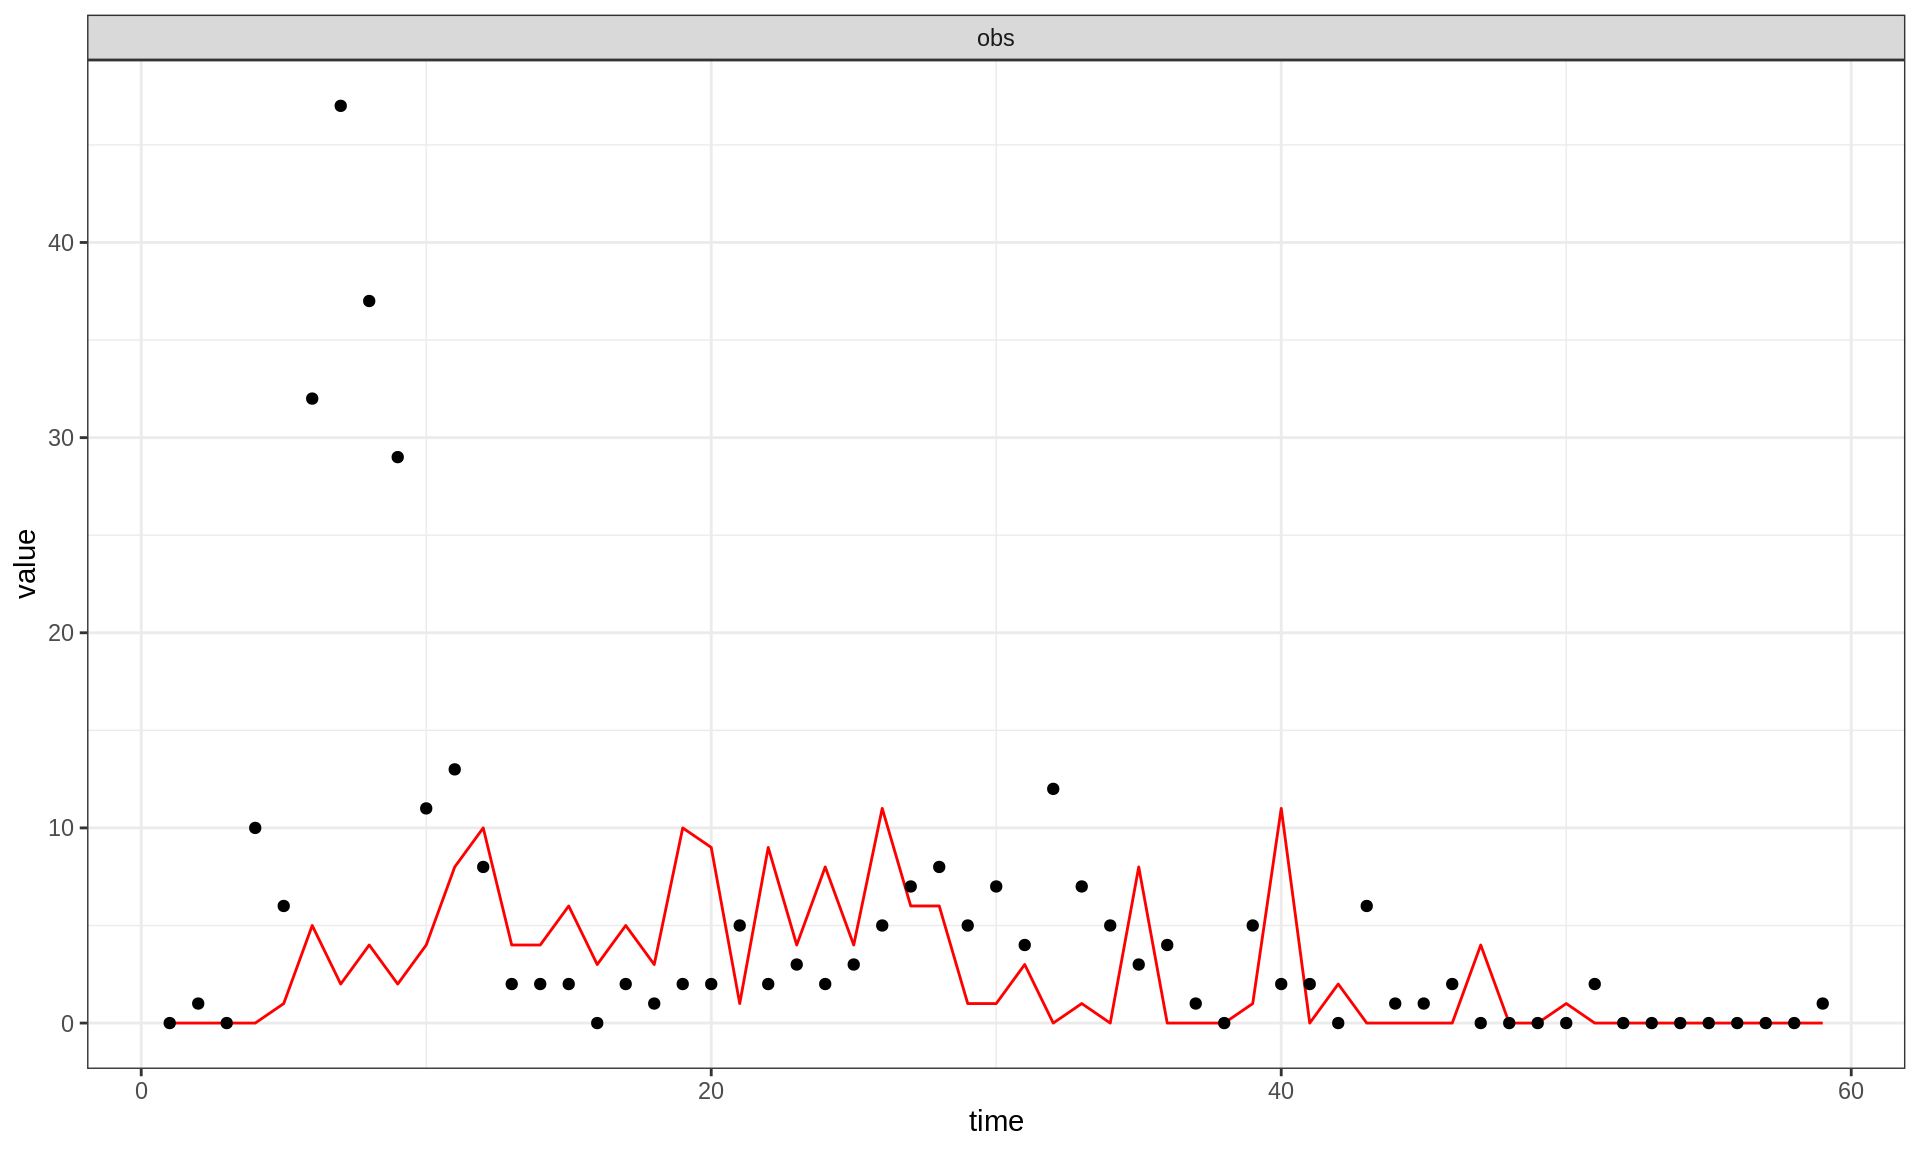
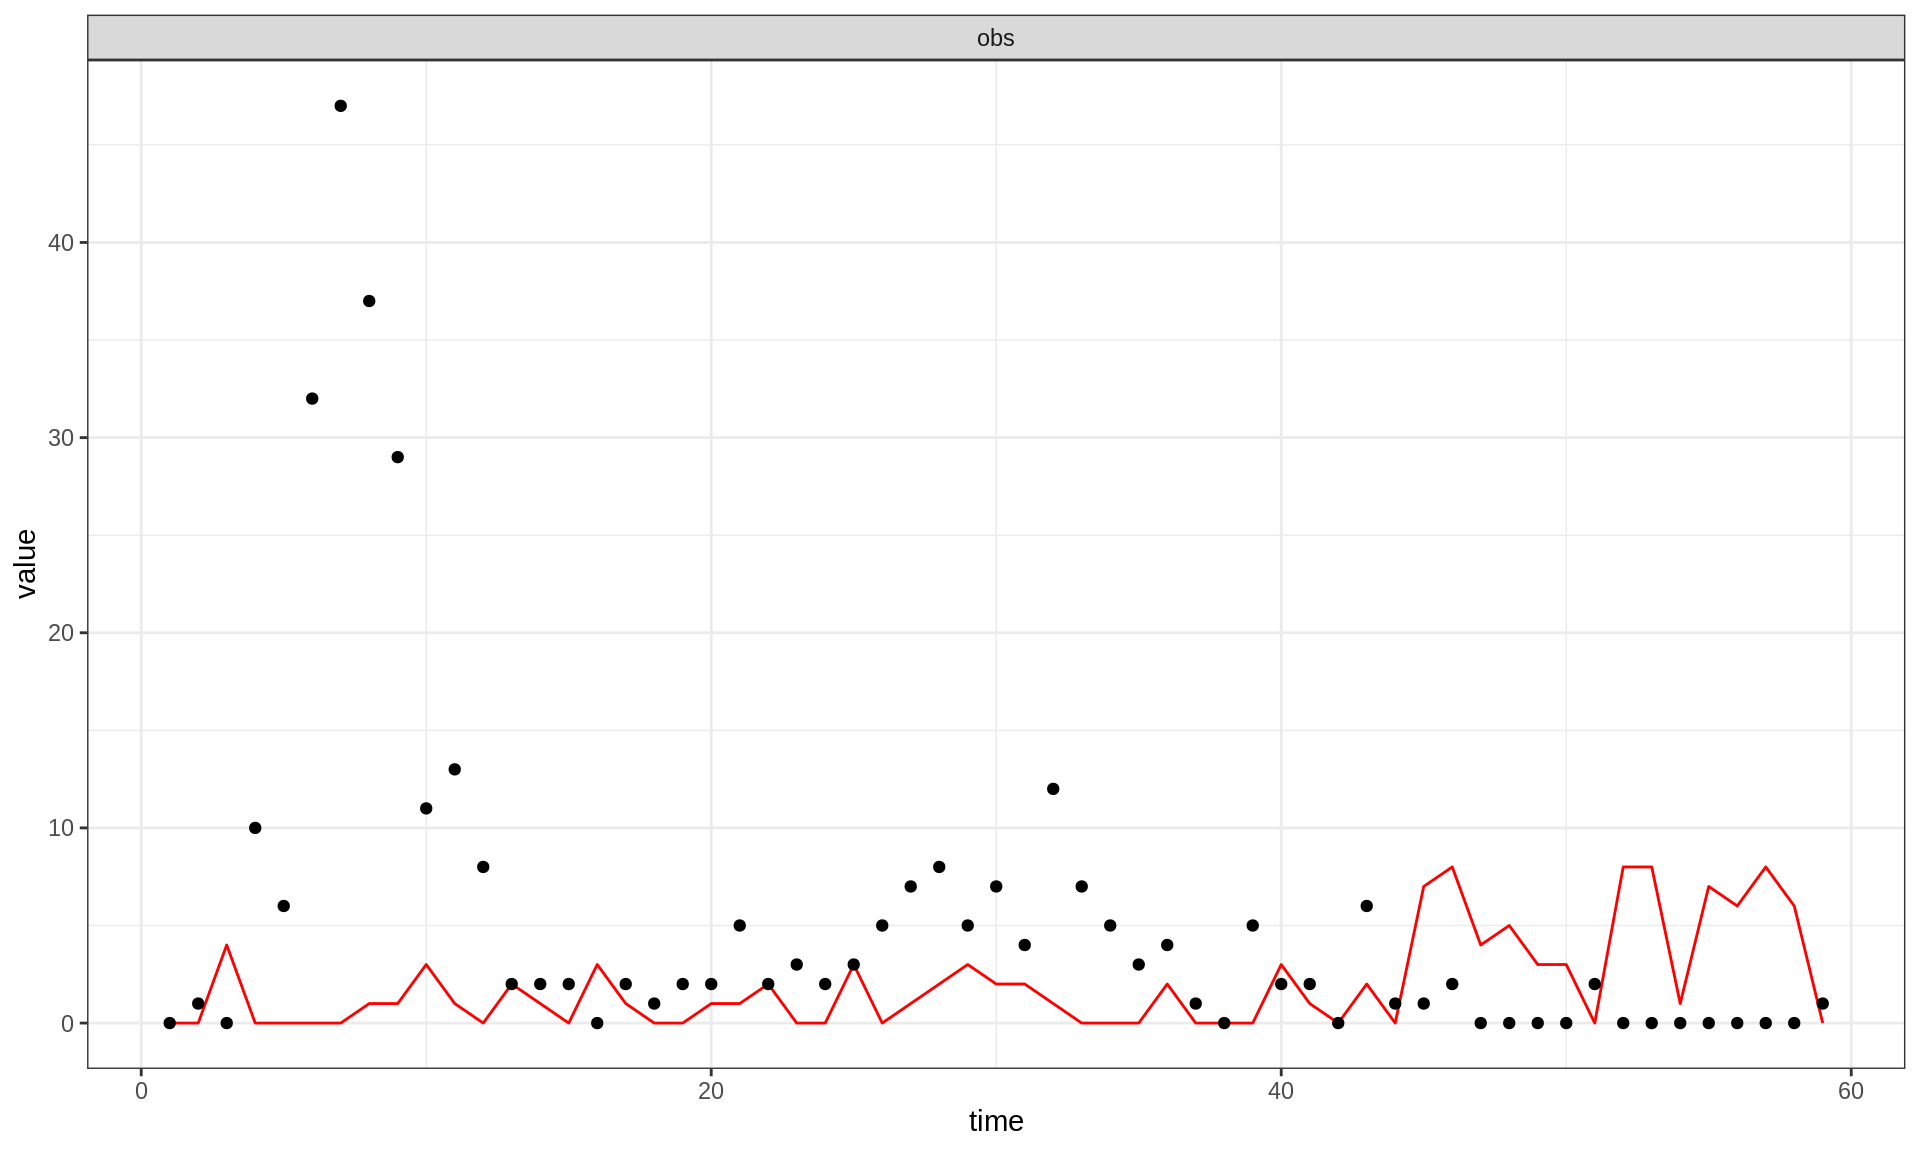
Deploying to gh-pages from @ sbfnk/mfiidd@1f528eed11227e57f61047c29704ba3446d04c1e 🚀

diff --git a/pompR.html b/pompR.html
@@ -339,14 +339,14 @@ seit4lInitState &lt;- c(S.0 = 250, E.0 = 0, I.0 = 4, T1.0 = 0, T2.0 = 0, T3.0 = 
 <p>Note the <em>pomp</em> syntax, whereby initial states are named as the named variable with <code>.0</code> appended. Note also that the SEIT4L model needs a slightly different initial state (because the variable names are different).</p>
 <div id="deterministic-trajectory" class="section level2">
 <h2>Deterministic trajectory</h2>
-<pre class="r"><code>seitlTraj &lt;- trajectory(seitlPomp, params = c(theta, seitlInitState), format = &quot;data.frame&quot;)
+<pre class="r"><code>seitlTraj &lt;- trajectory(seitlPompR, params = c(theta, seitlInitState), format = &quot;data.frame&quot;)
 plotTraj(seitlTraj)</code></pre>
 <p><img src="figure/pomp/unnamed-chunk-10-1.png" width="960" style="display: block; margin: auto;" /></p>
 <p>The <code>trajectory</code> function simulates the deterministic skeleton of the <code>pomp</code> object it is given, ignoring all process or measurement stochasticity.</p>
 </div>
 <div id="stochastic-trajectories" class="section level2">
 <h2>Stochastic trajectories</h2>
-<pre class="r"><code>seitlSim &lt;- simulate(seitlPomp, params = c(theta, seitlInitState), include.data = FALSE,
+<pre class="r"><code>seitlSim &lt;- simulate(seitlPompR, params = c(theta, seitlInitState), include.data = FALSE,
     format = &quot;data.frame&quot;)
 
 plotTraj(seitlSim, data = fluTdc1971, stateNames = &quot;obs&quot;)</code></pre>
@@ -355,9 +355,9 @@ plotTraj(seitlSim, data = fluTdc1971, stateNames = &quot;obs&quot;)</code></pre>
 </div>
 <div id="particle-filter" class="section level1">
 <h1>Particle filter</h1>
-<pre class="r"><code>pf &lt;- pfilter(seitlPomp, params = c(theta, seitlInitState), Np = 100)
+<pre class="r"><code>pf &lt;- pfilter(seitlPompR, params = c(theta, seitlInitState), Np = 100)
 logLik(pf)</code></pre>
-<pre><code>## [1] -216.9046</code></pre>
+<pre><code>## [1] -221.0246</code></pre>
 <p>This estimates the likelihood of the given parameters using a particle filter with <code>Np = 100</code> particles.</p>
 </div>
 <div id="model-fitting-by-maximising-the-likelihood" class="section level1">
@@ -365,7 +365,7 @@ logLik(pf)</code></pre>
 <p>Several methods are available in <em>pomp</em> for fitting a deterministic or stochastic model to data using maximum likelihood. Remember that this implies a <em>frequentist</em> method, that is the prior distribution is ignored, and the parameter values that yield maximum likelihood are interpreted as the true parameters.</p>
 <div id="trajectory-matching" class="section level2">
 <h2>Trajectory matching</h2>
-<pre class="r"><code>seitlTm &lt;- traj_objfun(seitlPomp, params = c(theta, seitlInitState), est = names(theta))
+<pre class="r"><code>seitlTm &lt;- traj_objfun(seitlPompR, params = c(theta, seitlInitState), est = names(theta))
 res &lt;- optim(par = log(theta), fn = seitlTm)</code></pre>
 <pre class="r"><code>logLik(seitlTm)</code></pre>
 <pre><code>## [1] -139.4111</code></pre>
@@ -381,11 +381,10 @@ plotTraj(seitlTmSim, data = fluTdc1971, stateNames = &quot;obs&quot;)</code></pr
 names(propSd) &lt;- names(theta)
 rwSd &lt;- do.call(rw_sd, as.list(propSd))
 
-seitlMf &lt;- mif2(seitlPomp, params = coef(seitlTm), Nmif = 50, Np = 1000, cooling.fraction.50 = 0.01,
+seitlMf &lt;- mif2(seitlPompR, params = coef(seitlTm), Nmif = 50, Np = 1000, cooling.fraction.50 = 0.01,
     rw.sd = rwSd)
 seitlMfSim &lt;- simulate(seitlMf, nsim = 10, include.data = TRUE, format = &quot;data.frame&quot;)
 plotTraj(seitlMfSim, data = fluTdc1971, stateNames = &quot;obs&quot;)</code></pre>
-<p><img src="figure/pomp/unnamed-chunk-16-1.png" width="672" style="display: block; margin: auto;" /></p>
 <pre class="r"><code>logLik(seitlMf)</code></pre>
 <pre><code>## [1] -124.7027</code></pre>
 <p>This fits the stochastic model to the data by maximising the likelihood using so-called <a href="https://en.wikipedia.org/wiki/Iterated_filtering">iterated filtering</a>. The parameters to be fitted are randomly perturbed (via a so-called random walk) in parameter space and the likelihood estimated with a particle filter. When <em>iterating</em> this procedure with smaller and smaller perturbations (i.e., smaller and smaller steps in the random walk), the parameters converge to the maximum likelihood estimate. For more information on maximum likelihood by iterated filtering, see the references given on the <a href="https://en.wikipedia.org/wiki/Iterated_filtering#References">wikipedia page</a>.</p>
@@ -400,18 +399,14 @@ plotTraj(seitlMfSim, data = fluTdc1971, stateNames = &quot;obs&quot;)</code></pr
 <h2>Particle Markov-Chain Monte Carlo (pMCMC)</h2>
 <p>The following code runs pMCMC with adaptation of the proposal distribution using the model given to the <code>POMP</code> object. <strong>Note</strong>: you can try first with a smaller value of the <code>Nmcmc</code> parameter; depending on the power of your computer, the code below can take a while to run.</p>
 <pre class="r"><code># run pMCMC with adaptive MCMC
-seitlPmcmc &lt;- pmcmc(seitlPomp, params = coef(seitlMf), Nmcmc = 5000, Np = 128, proposal = mvn_rw_adaptive(rw.sd = propSd,
+seitlPmcmc &lt;- pmcmc(seitlPompR, params = coef(seitlMf), Nmcmc = 5000, Np = 128, proposal = mvn_rw_adaptive(rw.sd = propSd,
     scale.start = 100, shape.start = 200))
 trace &lt;- traces(seitlPmcmc)</code></pre>
 <pre class="r"><code>library(&quot;coda&quot;)
 # acceptance rate
-1 - rejectionRate(trace)</code></pre>
-<pre><code>##    loglik log.prior        R0     D_lat     D_inf     alpha     D_imm       rho 
-##    0.1544    0.0000    0.1544    0.1544    0.1544    0.1544    0.1544    0.1544 
-##       S.0       E.0       I.0       T.0       L.0     Inc.0 
-##    0.0000    0.0000    0.0000    0.0000    0.0000    0.0000</code></pre>
-<pre class="r"><code>plot(trace)</code></pre>
-<p><img src="figure/pomp/unnamed-chunk-19-1.png" width="960" style="display: block; margin: auto;" /><img src="figure/pomp/unnamed-chunk-19-2.png" width="960" style="display: block; margin: auto;" /><img src="figure/pomp/unnamed-chunk-19-3.png" width="960" style="display: block; margin: auto;" /><img src="figure/pomp/unnamed-chunk-19-4.png" width="960" style="display: block; margin: auto;" /></p>
+1 - rejectionRate(trace)
+
+plot(trace)</code></pre>
 <p>This runs pMCMC on the model, here for <code>Nmcmc = 5000</code> MCMC iterations with <code>Np = 128</code> particles. If you’re interested in seeing the adaptation of the covariance matrix in action, you can run the <code>pmcmc</code> command above with the additional argument <code>verbose = TRUE</code>.</p>
 <p>You will notice that the pMCMC runs much faster than the one we implemented earlier in the course. This is because both the model and the particle filter are now coded in C and compiled to fully use the processing power of the computer it runs on. Remember that the trace plots for the earlier practicals were obtained by running the code for several hours on a computing cluster. The code above, while perhaps not running for quite long enough for a reliable estimation of the posterior densities, should run in only a few minutes to run on your computer (on a Macbook Pro, it took a few minutes). You could try running the same sequence of commands with the <code>seitlPompR</code> object to see the enourmous difference in running times.</p>
 <p>Look at the trace and density plots above. Are you satisfied with the performance of the MCMC? How would you check if you can trust the resulting posterior samples? What would you change if you weren’t satisfied? We hope that the knowledge and tools you have acquired in this course means you know what might be needed in order to obtain a reliable model fit. Do you get the same answers as yesterday?</p>
